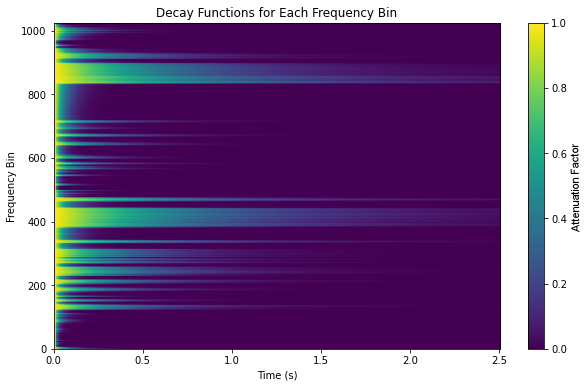
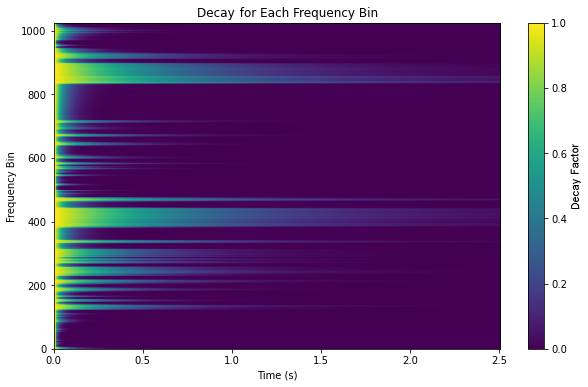
Clarification: Decay Matrix shows relative Decay not Attenuation.
Attenuation is the reciproce of a gain  factor. But here, the Decay Matrix shows the decay to be applied from the relation of original and recorded signal. So if y has longer decay, that behavior van be observed directly in the Decay Matrix for each frequency bin. Because the Decay Matrix is convolved with the impulse response, which will be deconvoluted from a third signal z, it can't be called attenuation anymore.

Changed region(s): [[0.2755, 0.0, 0.6735, 0.062], [0.949, 0.4651, 1.0, 0.5891]]

diff --git a/code/Digital Audio Filter by Deconvolution with Frequency Bin Specific Decayed Discrete Impulse Response.py b/code/Digital Audio Filter by Deconvolution with Frequency Bin Specific Decayed Discrete Impulse Response.py
@@ -459,7 +459,7 @@ def process_files(input_file1, input_file2, test_file, output_folder, sample_rat
     # Calculate gain factor 
     #impulse_response_rms = calculate_rms(impulse_response)
     #output_sig_rms = calculate_rms(output_sig)
-    #impulse_response=adjust_impulse_response(impulse_response, test_sig, output_sig, sample_rate)
+    impulse_response=adjust_impulse_response(impulse_response, test_sig, output_sig, sample_rate)
     
     # additional decay as needed
     #impulse_response = add_decay_to_impulse_response(impulse_response, decay_factor=0.01)
